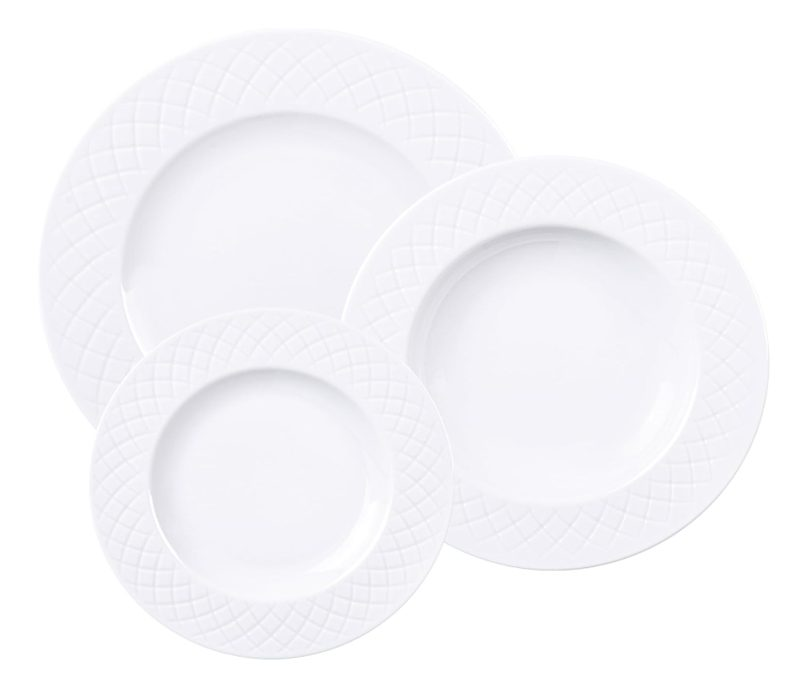
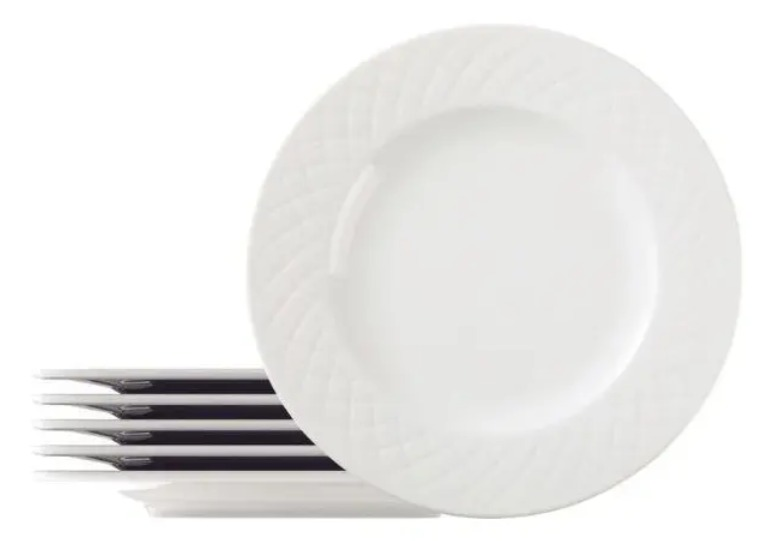
jogo de pratos

diff --git a/config.js b/config.js
@@ -28,7 +28,7 @@ const PRESENTES = [
   {"cat": "Utensílios e acessórios de cozinha", "nome": "Kit de Facas (aço inox, profissionais)", "url": "https://www.amazon.com.br/Profissionais-Inoxid%C3%A1vel-Inteiri%C3%A7as-Antiferrugem-Ergon%C3%B4mico/dp/B0GXP3YGLT", "img": "imagens/kit-de-facas.jpg", "reservado": false},
   {"cat": "Utensílios e acessórios de cozinha", "nome": "Kit de Escorredores e Peneiras (4 peças de inox)", "url": "https://meli.la/27NdGGn", "img": "imagens/kit-de-escorredores-e-peneiras.jpg", "reservado": false},
   {"cat": "Utensílios e acessórios de cozinha", "nome": "Kit de Porta Temperos (giratório em inox com 12 potes de vidro)", "url": "https://www.mercadolivre.com.br/porta-condimentos-giratorio-aco-inox-com-12-potes-vidro-360/up/MLBU4048542620", "img": "imagens/kit-de-porta-temperos.jpg", "reservado": false},
-  {"cat": "Louças e itens para servir", "nome": "Jogo de Pratos (Tramontina Ingrid, porcelana)", "url": "https://www.amazon.com.br/Pratos-Tramontina-Ingrid-Porcelana-Pe%C3%A7as/dp/B0BG6CHH4X", "img": "imagens/jogo-de-pratos.jpg", "reservado": false},
+  {"cat": "Louças e itens para servir", "nome": "Jogo de Pratos (Tramontina Ingrid, porcelana)", "url": " https://meli.la/1jfZsKD", "img": "imagens/jogo-de-pratos.jpg", "reservado": false},
   {"cat": "Louças e itens para servir", "nome": "Jogo de Talheres (Tramontina)", "url": "https://www.amazon.com.br/dp/B076X6TXTC", "img": "imagens/jogo-de-talheres.jpg", "reservado": false},
   {"cat": "Louças e itens para servir", "nome": "Kit para Sobremesa", "url": "https://meli.la/1v2MNiV", "img": "imagens/kit-para-sobremesa.jpg", "reservado": false},
   {"cat": "Louças e itens para servir", "nome": "Prato para Bolo (cristal Wolff Pearl)", "url": "https://www.amazon.com.br/WOLFF-Pearl-Prato-Cristal-Transparente/dp/B076Z41X98", "img": "imagens/prato-para-bolo.jpg", "reservado": false},
